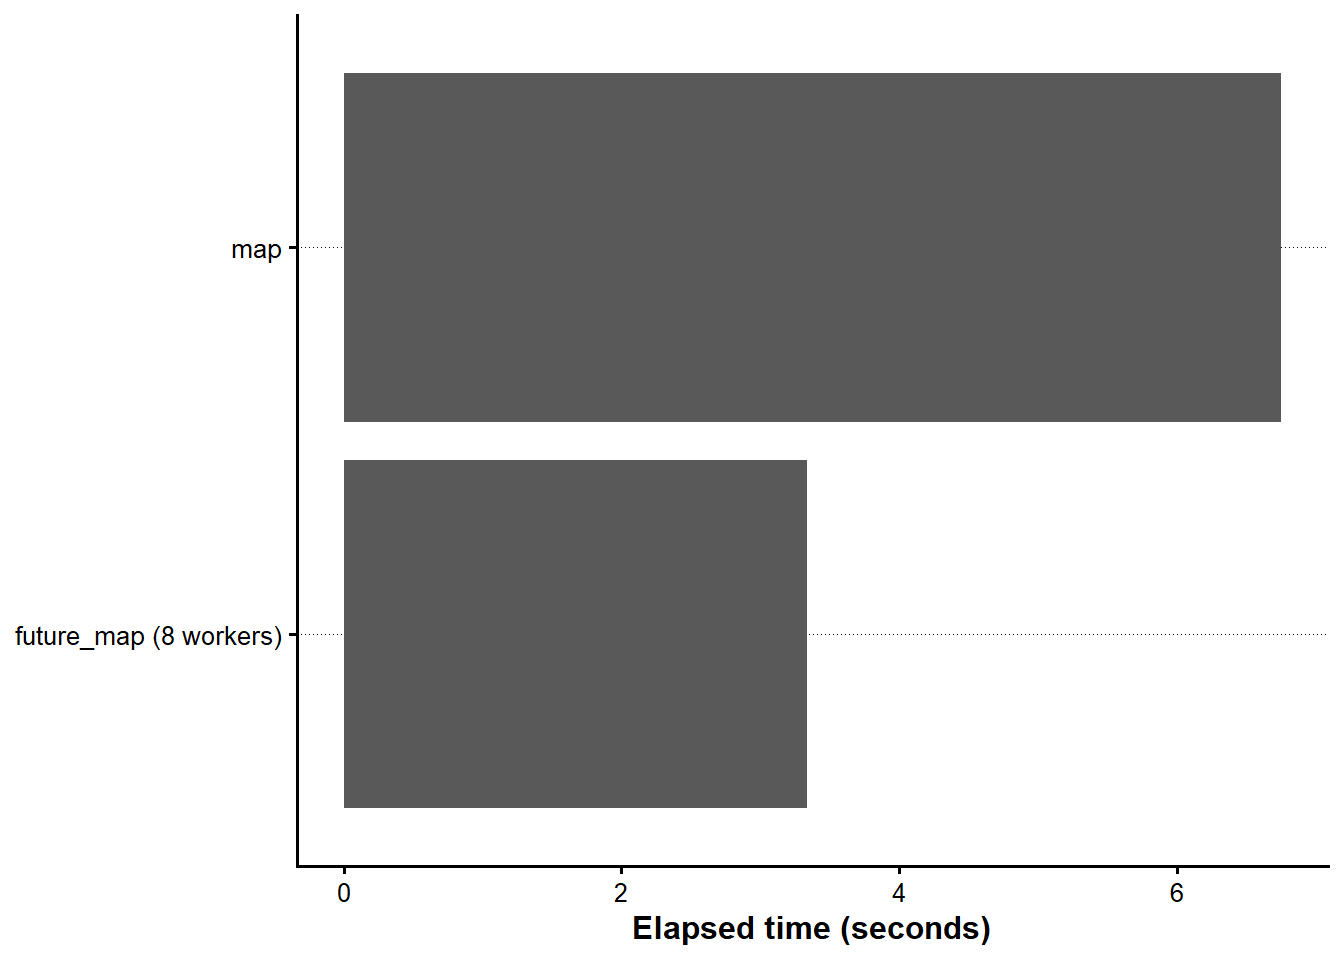
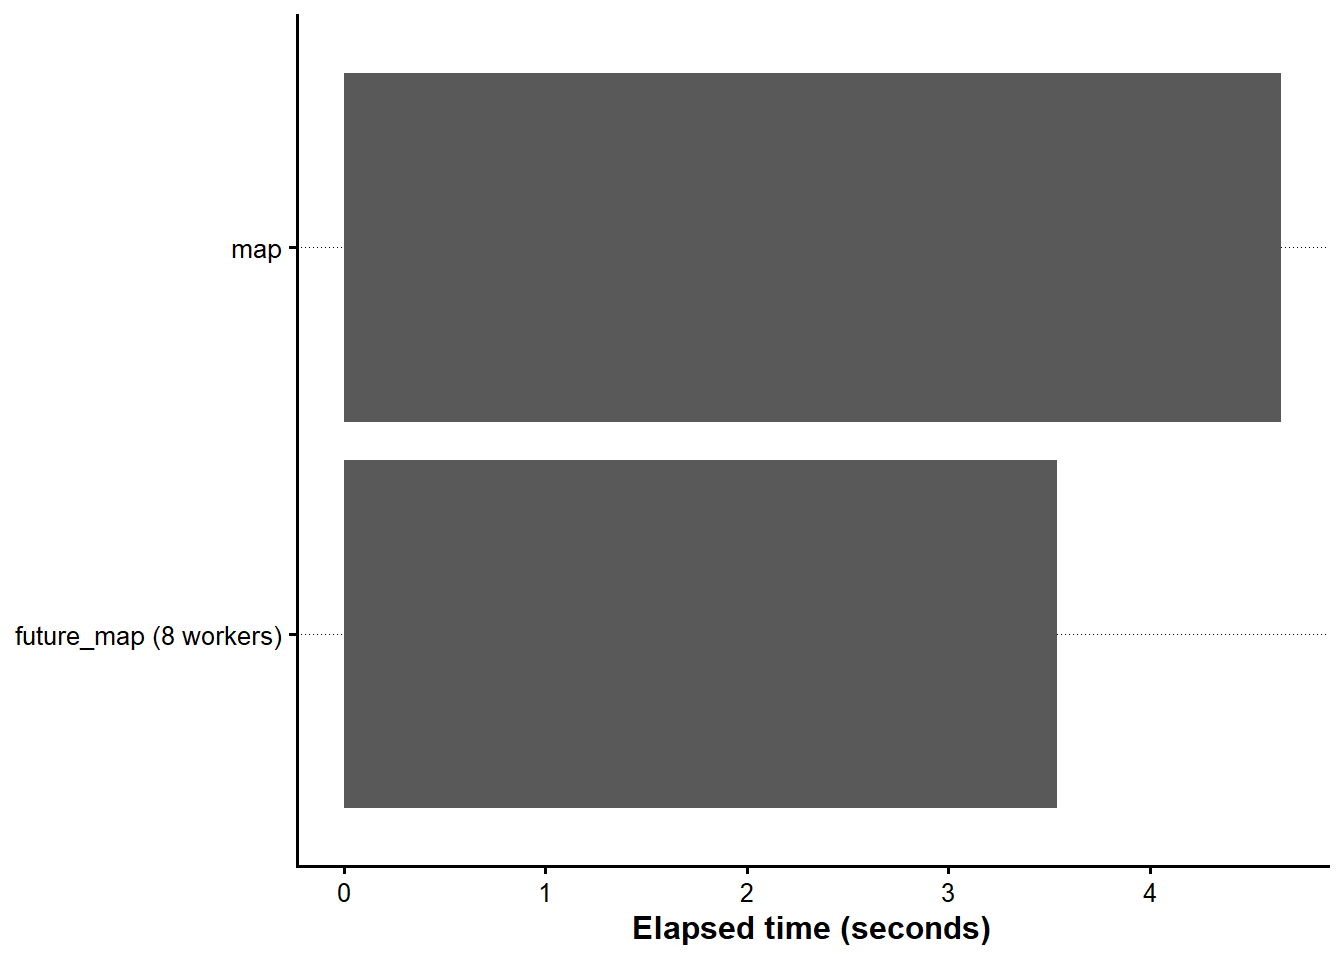
Update introduction and render book outputs

Changed region(s): [[0.5938, 0.4688, 0.8125, 0.8438], [0.8438, 0.9062, 0.875, 0.9375]]

diff --git a/_book/index.html b/_book/index.html
@@ -253,8 +253,14 @@ ul.task-list li input[type="checkbox"] {
 </nav>
 <div id="quarto-sidebar-glass" class="quarto-sidebar-collapse-item" data-bs-toggle="collapse" data-bs-target=".quarto-sidebar-collapse-item"></div>
 <!-- margin-sidebar -->
-    <div id="quarto-margin-sidebar" class="sidebar margin-sidebar zindex-bottom">
-        
+    <div id="quarto-margin-sidebar" class="sidebar margin-sidebar">
+        <nav id="TOC" role="doc-toc" class="toc-active">
+    <h2 id="toc-title">Table of contents</h2>
+   
+  <ul>
+  <li><a href="#はじめに" id="toc-はじめに" class="nav-link active" data-scroll-target="#はじめに">はじめに</a></li>
+  </ul>
+</nav>
     </div>
 <!-- main -->
 <main class="content" id="quarto-document-content">
@@ -285,11 +291,22 @@ ul.task-list li input[type="checkbox"] {
 </header>
 
 
-<p>『ラグランジェ・ファイナンス』は、実証会計・ファイナンスと金融工学を、Rおよびtidyverseを用いて学ぶための入門書である。</p>
-<p>第I部では、Rの基本操作、財務データ、株式時系列、ファクターモデル、資産価格モデルおよびイベントスタディを扱う。第II部では、確定キャッシュフロー、金利期間構造、OISスワップ、オプション評価モデル、信用リスクおよびエキゾチック・デリバティブを扱う。</p>
-<p>各章では、理論だけでなく、再現可能なコードと計算結果を対応させながら金融分析の実装方法を確認する。</p>
+<section id="はじめに" class="level1">
+<h1>はじめに</h1>
+<p>2008年のリーマン・ショックを契機として、バーゼル規制をはじめとする金融規制の枠組みは再整備され、金融機関には、より精緻な価格評価やリスク計測が求められるようになった。その過程で、金融工学の理論や数値計算手法は実務の中に広く定着し、現在では一定の成熟段階に達している。</p>
+<p>一方、それらを支えるソフトウェア技術と計算環境は、この20年で劇的に進歩した。クラウドコンピューティング、オープンソースソフトウェア、並列処理および分散処理技術の発展により、かつて金融機関や研究機関のみが利用できたスーパーコンピューターやグリッドコンピューティング環境は、クラウドサービスやPCクラスタを利用することで、個人や小規模組織でも比較的低コストに構築できるようになった。また、モンテカルロシミュレーションやリスク計測など、大量の計算資源を必要とする金融工学計算も、現実的な時間で実行できる時代となっている。</p>
+<p>本書は、このようなソフトウェア技術と計算環境の変化を背景として執筆したものである。</p>
+<blockquote class="blockquote">
+<p><strong>金融工学を学ぶ時代から、自ら金融工学システムを構築する時代へ。</strong></p>
+</blockquote>
+<p>本書は三部構成となっている。</p>
+<p>第I部では、均衡モデルを中心とした実証ファイナンスを扱い、財務データや市場データを用いた分析手法を学ぶ。第II部では、無裁定価格理論を中心として、債券、金利期間構造、デリバティブ、信用リスクなどの金融工学モデルを実装する。さらに第III部では、第II部で実装した無裁定価格モデルを基盤として、並列処理および分散処理環境へ展開し、大規模な金融工学計算を実装する方法を扱う。</p>
+<p>本書では、その実装基盤としてRおよびtidyverseを採用する。Rは統計解析言語として広く利用されているが、本書では、優れたデータハンドリング機能、ベクトル演算、関数型プログラミングの特徴を備えた実装基盤として位置付けている。これらの特徴を活かすことで、金融データの取得・加工から価格評価、リスク計測、さらには並列・分散コンピューティング環境を利用した大規模金融工学計算までを、一貫した設計思想のもとで実装することができる。</p>
+<p>本書の目的は、金融理論を理解することだけではなく、それらをソフトウェアとして実装し、現代の金融工学システムとして構築するための基礎技術を体系的に習得することにある。</p>
+<p>各章では、理論、実装および計算結果を一体として解説し、再現可能なコードを通じて金融工学システムを段階的に構築できるよう構成している。また、第III部では、第II部で実装した金融工学モデルを並列・分散コンピューティング環境へ展開することで、大規模金融工学計算の考え方と実装方法を扱う金融機関で求められる大規模金融工学計算の考え方と実装方法について学ぶ。</p>
 
 
+</section>
 
 </main> <!-- /main -->
 <script id="quarto-html-after-body" type="application/javascript">

diff --git a/_book/part1_empirical/ch01_r_basics_tidyverse.html b/_book/part1_empirical/ch01_r_basics_tidyverse.html
@@ -1763,12 +1763,12 @@ pre > code.sourceCode > span > a:first-child::before { text-decoration: underlin
 <span id="cb64-12"><a href="#cb64-12" aria-hidden="true" tabindex="-1"></a><span class="co">#&gt; # A tibble: 2 × 5</span></span>
 <span id="cb64-13"><a href="#cb64-13" aria-hidden="true" tabindex="-1"></a><span class="co">#&gt;   chr_method             num_pi num_elapsed_seconds num_absolute_error</span></span>
 <span id="cb64-14"><a href="#cb64-14" aria-hidden="true" tabindex="-1"></a><span class="co">#&gt;   &lt;chr&gt;                   &lt;dbl&gt;               &lt;dbl&gt;              &lt;dbl&gt;</span></span>
-<span id="cb64-15"><a href="#cb64-15" aria-hidden="true" tabindex="-1"></a><span class="co">#&gt; 1 map                    3.1414                6.75        0.00016693 </span></span>
-<span id="cb64-16"><a href="#cb64-16" aria-hidden="true" tabindex="-1"></a><span class="co">#&gt; 2 future_map (8 workers) 3.1415                3.34        0.000094774</span></span>
+<span id="cb64-15"><a href="#cb64-15" aria-hidden="true" tabindex="-1"></a><span class="co">#&gt; 1 map                    3.1414                4.65        0.00016693 </span></span>
+<span id="cb64-16"><a href="#cb64-16" aria-hidden="true" tabindex="-1"></a><span class="co">#&gt; 2 future_map (8 workers) 3.1415                3.54        0.000094774</span></span>
 <span id="cb64-17"><a href="#cb64-17" aria-hidden="true" tabindex="-1"></a><span class="co">#&gt;   num_speedup</span></span>
 <span id="cb64-18"><a href="#cb64-18" aria-hidden="true" tabindex="-1"></a><span class="co">#&gt;         &lt;dbl&gt;</span></span>
 <span id="cb64-19"><a href="#cb64-19" aria-hidden="true" tabindex="-1"></a><span class="co">#&gt; 1      1     </span></span>
-<span id="cb64-20"><a href="#cb64-20" aria-hidden="true" tabindex="-1"></a><span class="co">#&gt; 2      2.0210</span></span></code></pre></div><button title="Copy to Clipboard" class="code-copy-button"><i class="bi"></i></button></div>
+<span id="cb64-20"><a href="#cb64-20" aria-hidden="true" tabindex="-1"></a><span class="co">#&gt; 2      1.3136</span></span></code></pre></div><button title="Copy to Clipboard" class="code-copy-button"><i class="bi"></i></button></div>
 </div>
 <div class="cell">
 <div class="code-copy-outer-scaffold"><div class="sourceCode cell-code" id="cb65"><pre class="sourceCode r code-with-copy"><code class="sourceCode r"><span id="cb65-1"><a href="#cb65-1" aria-hidden="true" tabindex="-1"></a>p <span class="ot">&lt;-</span> tbl_pi_benchmark <span class="sc">|&gt;</span></span>
@@ -1838,7 +1838,7 @@ pre > code.sourceCode > span > a:first-child::before { text-decoration: underlin
 <span id="cb67-3"><a href="#cb67-3" aria-hidden="true" tabindex="-1"></a>arrow<span class="sc">::</span><span class="fu">write_parquet</span>(tbl_arrow_price, <span class="at">sink =</span> path_parquet)</span>
 <span id="cb67-4"><a href="#cb67-4" aria-hidden="true" tabindex="-1"></a></span>
 <span id="cb67-5"><a href="#cb67-5" aria-hidden="true" tabindex="-1"></a>path_parquet</span>
-<span id="cb67-6"><a href="#cb67-6" aria-hidden="true" tabindex="-1"></a><span class="co">#&gt; [1] "C:\\Users\\besuk\\AppData\\Local\\Temp\\RtmpaYQefz/financial_prices.parquet"</span></span></code></pre></div><button title="Copy to Clipboard" class="code-copy-button"><i class="bi"></i></button></div>
+<span id="cb67-6"><a href="#cb67-6" aria-hidden="true" tabindex="-1"></a><span class="co">#&gt; [1] "C:\\Users\\besuk\\AppData\\Local\\Temp\\RtmpKMoISf/financial_prices.parquet"</span></span></code></pre></div><button title="Copy to Clipboard" class="code-copy-button"><i class="bi"></i></button></div>
 </div>
 <div class="cell">
 <div class="code-copy-outer-scaffold"><div class="sourceCode cell-code" id="cb68"><pre class="sourceCode r code-with-copy"><code class="sourceCode r"><span id="cb68-1"><a href="#cb68-1" aria-hidden="true" tabindex="-1"></a>arrow<span class="sc">::</span><span class="fu">read_parquet</span>(path_parquet) <span class="sc">|&gt;</span></span>

diff --git a/_book/part3_enterprise_riemann/ch01_centric_parallel_comput.html b/_book/part3_enterprise_riemann/ch01_centric_parallel_comput.html
@@ -659,8 +659,8 @@ write_parquet()</code></pre>
 <span id="cb21-11"><a href="#cb21-11" aria-hidden="true" tabindex="-1"></a><span class="co">#&gt; # A tibble: 2 × 3</span></span>
 <span id="cb21-12"><a href="#cb21-12" aria-hidden="true" tabindex="-1"></a><span class="co">#&gt;   method            elapsed_seconds relative_to_sequential</span></span>
 <span id="cb21-13"><a href="#cb21-13" aria-hidden="true" tabindex="-1"></a><span class="co">#&gt;   &lt;chr&gt;                       &lt;dbl&gt;                  &lt;dbl&gt;</span></span>
-<span id="cb21-14"><a href="#cb21-14" aria-hidden="true" tabindex="-1"></a><span class="co">#&gt; 1 purrr::map                   1.36                 1     </span></span>
-<span id="cb21-15"><a href="#cb21-15" aria-hidden="true" tabindex="-1"></a><span class="co">#&gt; 2 furrr::future_map            1.39                 1.0221</span></span></code></pre></div><button title="Copy to Clipboard" class="code-copy-button"><i class="bi"></i></button></div>
+<span id="cb21-14"><a href="#cb21-14" aria-hidden="true" tabindex="-1"></a><span class="co">#&gt; 1 purrr::map                 1.33                  1      </span></span>
+<span id="cb21-15"><a href="#cb21-15" aria-hidden="true" tabindex="-1"></a><span class="co">#&gt; 2 furrr::future_map          1.2200                0.91729</span></span></code></pre></div><button title="Copy to Clipboard" class="code-copy-button"><i class="bi"></i></button></div>
 </div>
 <div class="cell">
 <div class="code-copy-outer-scaffold"><div class="sourceCode cell-code" id="cb22"><pre class="sourceCode r code-with-copy"><code class="sourceCode r"><span id="cb22-1"><a href="#cb22-1" aria-hidden="true" tabindex="-1"></a>plot_benchmark <span class="ot">&lt;-</span> tbl_benchmark <span class="sc">|&gt;</span></span>

diff --git a/_book/part1_empirical/ch02_financial_data.html b/_book/part1_empirical/ch02_financial_data.html
@@ -1289,7 +1289,7 @@ NBC_t = \frac{NFE_t}{NFO_{t-1}}
 <span id="cb28-13"><a href="#cb28-13" aria-hidden="true" tabindex="-1"></a><span class="co">#&gt;                                                                                                        size</span></span>
 <span id="cb28-14"><a href="#cb28-14" aria-hidden="true" tabindex="-1"></a><span class="co">#&gt; C:/AnalyticFin/Projects/LagrangeFinance/data/derived/fundamentals/financial_characteristics.parquet 1357543</span></span>
 <span id="cb28-15"><a href="#cb28-15" aria-hidden="true" tabindex="-1"></a><span class="co">#&gt;                                                                                                                   mtime</span></span>
-<span id="cb28-16"><a href="#cb28-16" aria-hidden="true" tabindex="-1"></a><span class="co">#&gt; C:/AnalyticFin/Projects/LagrangeFinance/data/derived/fundamentals/financial_characteristics.parquet 2026-08-02 22:44:40</span></span></code></pre></div><button title="Copy to Clipboard" class="code-copy-button"><i class="bi"></i></button></div>
+<span id="cb28-16"><a href="#cb28-16" aria-hidden="true" tabindex="-1"></a><span class="co">#&gt; C:/AnalyticFin/Projects/LagrangeFinance/data/derived/fundamentals/financial_characteristics.parquet 2026-08-03 11:04:24</span></span></code></pre></div><button title="Copy to Clipboard" class="code-copy-button"><i class="bi"></i></button></div>
 </div>
 <p>保存したParquetファイルを読み直し、行数と列名が一致することを確認する。</p>
 <div class="cell">
